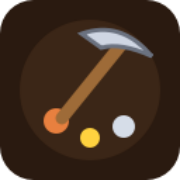
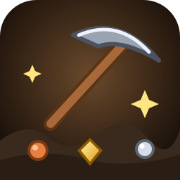
Mettre à jour Miner Quest : icône, écran de lancement, JOUER.html
- Nouvelle icône.
- Écran de lancement : jouer dans le navigateur ou installer sur le téléphone.
- JOUER.html pour lancer le jeu en un clic.

diff --git a/docs/launcher.js b/docs/launcher.js
@@ -1,0 +1,96 @@
+// Écran de lancement commun à tous les jeux :
+// « Jouer dans le navigateur » ou « Installer sur le téléphone ».
+// Il n'apparaît pas quand le jeu est déjà ouvert comme appli installée.
+(function () {
+  var standalone = window.matchMedia('(display-mode: standalone)').matches || navigator.standalone === true;
+  var deferredPrompt = null;
+  var ua = navigator.userAgent;
+  var isIOS = /iPhone|iPad|iPod/i.test(ua) || (navigator.platform === 'MacIntel' && navigator.maxTouchPoints > 1);
+  var isAndroid = /Android/i.test(ua);
+  var isMobile = isIOS || isAndroid;
+
+  window.addEventListener('beforeinstallprompt', function (e) {
+    e.preventDefault();
+    deferredPrompt = e;
+  });
+
+  if (standalone) return;
+
+  function el(tag, cls, text) {
+    var n = document.createElement(tag);
+    if (cls) n.className = cls;
+    if (text) n.textContent = text;
+    return n;
+  }
+
+  function build() {
+    var overlay = el('div', 'gl-overlay');
+    overlay.setAttribute('role', 'dialog');
+    overlay.setAttribute('aria-modal', 'true');
+    var card = el('div', 'gl-card');
+    overlay.appendChild(card);
+
+    var iconLink = document.querySelector('link[rel="apple-touch-icon"]') || document.querySelector('link[rel="icon"]');
+    if (iconLink) {
+      var img = el('img', 'gl-icon');
+      img.src = iconLink.href;
+      img.alt = '';
+      card.appendChild(img);
+    }
+    card.appendChild(el('h1', 'gl-title', document.title));
+    card.appendChild(el('p', 'gl-text', 'Comment veux-tu jouer ?'));
+
+    var play = el('button', 'gl-btn gl-main', '▶  Jouer dans le navigateur');
+    var install = el('button', 'gl-btn', isMobile ? '📲  Installer sur le téléphone' : '📲  Installer comme une appli');
+    var steps = el('div', 'gl-steps');
+    steps.hidden = true;
+    card.appendChild(play);
+    card.appendChild(install);
+    card.appendChild(steps);
+    document.body.appendChild(overlay);
+
+    play.addEventListener('click', function () {
+      overlay.remove();
+      var canvas = document.getElementById('canvas');
+      if (canvas) canvas.focus();
+    });
+
+    install.addEventListener('click', function () {
+      if (deferredPrompt) {
+        deferredPrompt.prompt();
+        deferredPrompt.userChoice.then(function (choice) {
+          deferredPrompt = null;
+          if (choice.outcome === 'accepted') {
+            steps.hidden = false;
+            steps.textContent = "C'est installé ! Tu trouveras le jeu sur ton écran d'accueil.";
+          }
+        });
+        return;
+      }
+      steps.hidden = false;
+      steps.innerHTML = '';
+      var list = el('ol');
+      var items;
+      if (isIOS) {
+        items = ['Ouvre cette page dans Safari.', 'Appuie sur le bouton Partager (carré avec une flèche).', "Choisis « Sur l'écran d'accueil »."];
+      } else if (isAndroid) {
+        items = ['Ouvre cette page dans Chrome.', 'Appuie sur le menu ⋮ en haut à droite.', "Choisis « Installer l'application » ou « Ajouter à l'écran d'accueil »."];
+      } else {
+        items = ["Dans Chrome ou Edge, clique sur l'icône d'installation à droite de la barre d'adresse.", 'Ou ouvre cette page sur ton téléphone pour l’installer dessus.'];
+      }
+      items.forEach(function (t) { list.appendChild(el('li', null, t)); });
+      steps.appendChild(list);
+    });
+
+    window.addEventListener('appinstalled', function () {
+      steps.hidden = false;
+      steps.textContent = "C'est installé ! Tu trouveras le jeu sur ton écran d'accueil.";
+    });
+  }
+
+  if (document.readyState === 'loading') {
+    document.addEventListener('DOMContentLoaded', build);
+  } else {
+    build();
+  }
+})();

diff --git a/docs/launcher.css b/docs/launcher.css
@@ -1,0 +1,30 @@
+.gl-overlay {
+  position: fixed; inset: 0; z-index: 1000;
+  display: flex; align-items: center; justify-content: center; padding: 20px;
+  background: radial-gradient(circle at 50% 20%, rgba(44, 33, 71, 0.96), rgba(12, 9, 20, 0.97));
+  font-family: system-ui, -apple-system, "Segoe UI", sans-serif; color: #f3ecff;
+}
+.gl-card {
+  width: 100%; max-width: 380px; max-height: 100%; overflow: auto;
+  display: flex; flex-direction: column; align-items: stretch; gap: 12px;
+  background: #221a36; border: 2px solid #4b3b78; border-radius: 18px; padding: 22px;
+  text-align: center; box-shadow: 0 20px 50px rgba(0, 0, 0, 0.5);
+}
+.gl-icon { width: 72px; height: 72px; align-self: center; border-radius: 16px; }
+.gl-title { margin: 0; font-size: 1.5rem; }
+.gl-text { margin: 0 0 4px; color: #b9addb; }
+.gl-btn {
+  font: inherit; font-size: 1.05rem; font-weight: 600; cursor: pointer;
+  padding: 13px 16px; border-radius: 12px; border: 2px solid #4b3b78;
+  background: #2f2450; color: #f3ecff;
+}
+.gl-btn:hover, .gl-btn:focus-visible { border-color: #ffcf5a; outline: none; }
+.gl-main { background: #ffcf5a; border-color: #ffcf5a; color: #241a07; }
+.gl-main:hover, .gl-main:focus-visible { background: #ffdc84; }
+.gl-steps {
+  text-align: left; background: #1a1429; border-radius: 12px; padding: 10px 14px;
+  color: #e5dcff; font-size: 0.95rem; line-height: 1.45;
+}
+.gl-steps ol { margin: 0; padding-left: 20px; }
+.gl-link { color: #b9addb; font-size: 0.9rem; text-decoration: none; margin-top: 2px; }
+.gl-link:hover { color: #ffcf5a; }

diff --git a/docs/index.html b/docs/index.html
@@ -93,7 +93,7 @@ body {
 		<link id="-gd-engine-icon" rel="icon" type="image/png" href="index.icon.png" />
 <link rel="apple-touch-icon" href="index.apple-touch-icon.png"/>
 <link rel="manifest" href="index.manifest.json">
-
+<link rel='stylesheet' href='launcher.css'><script src='launcher.js'></script>
 	</head>
 	<body>
 		<canvas id="canvas">
@@ -112,7 +112,7 @@ body {
 
 		<script src="index.js"></script>
 		<script>
-const GODOT_CONFIG = {"args":[],"canvasResizePolicy":2,"emscriptenPoolSize":8,"ensureCrossOriginIsolationHeaders":true,"executable":"index","experimentalVK":false,"fileSizes":{"index.pck":47888,"index.wasm":39514754},"focusCanvas":true,"gdextensionLibs":[],"godotPoolSize":4,"serviceWorker":"index.service.worker.js"};
+const GODOT_CONFIG = {"args":[],"canvasResizePolicy":2,"emscriptenPoolSize":8,"ensureCrossOriginIsolationHeaders":true,"executable":"index","experimentalVK":false,"fileSizes":{"index.pck":64640,"index.wasm":39514754},"focusCanvas":true,"gdextensionLibs":[],"godotPoolSize":4,"serviceWorker":"index.service.worker.js"};
 const GODOT_THREADS_ENABLED = false;
 const engine = new Engine(GODOT_CONFIG);
 

diff --git a/JOUER.html b/JOUER.html
@@ -1,0 +1,14 @@
+<!DOCTYPE html>
+<html lang="fr">
+<head>
+  <meta charset="UTF-8">
+  <meta name="viewport" content="width=device-width, initial-scale=1.0">
+  <title>Jouer à Miner Quest</title>
+  <meta http-equiv="refresh" content="0; url=https://ardalber.github.io/Miner-Quest/">
+  <script>location.replace("https://ardalber.github.io/Miner-Quest/");</script>
+</head>
+<body style="font-family:sans-serif;background:#14101e;color:#f3ecff;text-align:center;padding:40px">
+  <p>Lancement de <b>Miner Quest</b>…</p>
+  <p><a style="color:#ffcf5a" href="https://ardalber.github.io/Miner-Quest/">Clique ici si le jeu ne s'ouvre pas</a></p>
+</body>
+</html>

diff --git a/docs/index.service.worker.js b/docs/index.service.worker.js
@@ -4,7 +4,7 @@
 // Incrementing CACHE_VERSION will kick off the install event and force
 // previously cached resources to be updated from the network.
 /** @type {string} */
-const CACHE_VERSION = '1795382008|4003803';
+const CACHE_VERSION = '1795385875|3758037';
 /** @type {string} */
 const CACHE_PREFIX = 'Miner Quest-sw-cache-';
 const CACHE_NAME = CACHE_PREFIX + CACHE_VERSION;
